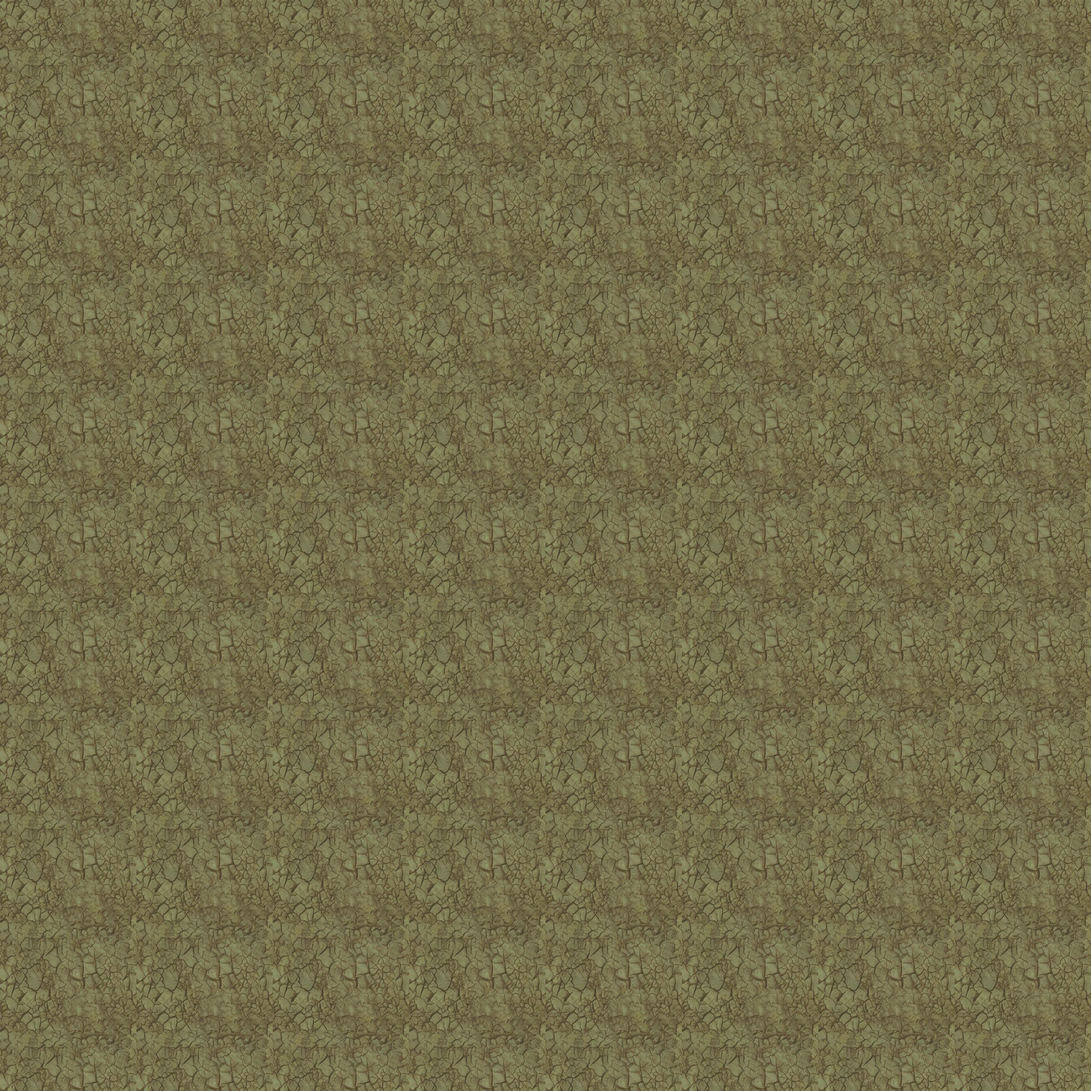
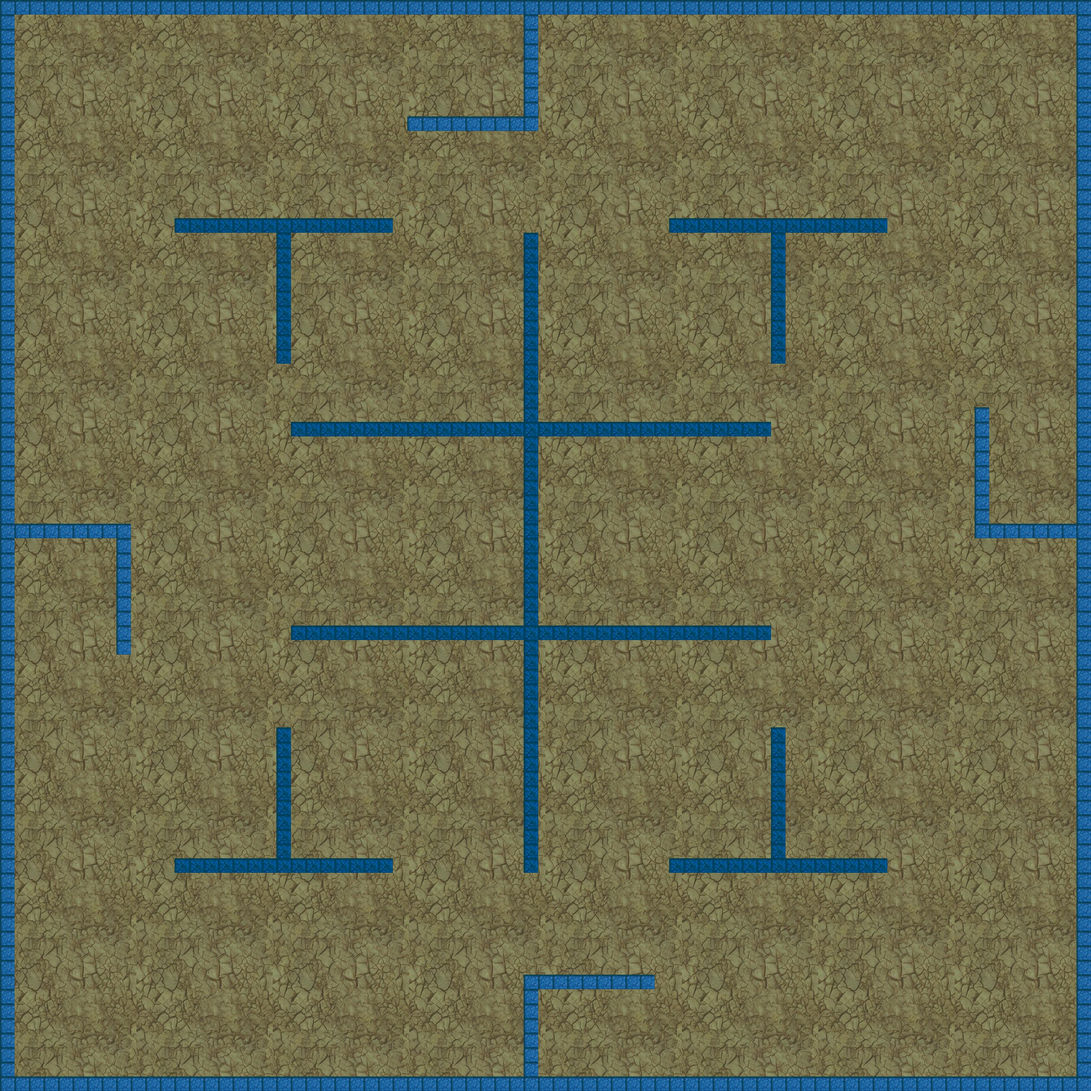
Added walls and minimap

diff --git a/src/application/World.java b/src/application/World.java
@@ -22,6 +22,10 @@ public class World extends JPanel implements Observer {
 
   protected final int MAIN_WIDTH = 2400;
   protected final int MAIN_HEIGHT = 2400;
+
+  protected final int MINI_MAP_WIDTH = 150;
+  protected final int MINI_MAP_HEIGHT = 150;
+
   protected final int STEP = 10;
   protected final String BACKGROUND_IMAGE = "resources/background_tile.png";
   protected final String TANK_IMAGE = "resources/Tank_grey_basic.png";
@@ -50,18 +54,127 @@ public class World extends JPanel implements Observer {
     try {
       Image tank1 = ImageIO.read(new File("resources/Tank_blue_basic_strip60.png"));
       Image tank2 = ImageIO.read(new File("resources/Tank_red_basic_strip60.png"));
-      this.tank1 = new Tank(tank1, 300, 300, KeyEvent.VK_W, KeyEvent.VK_S, KeyEvent.VK_A, KeyEvent.VK_D,
+      this.tank1 = new Tank(tank1, 1000, 150, KeyEvent.VK_W, KeyEvent.VK_S, KeyEvent.VK_A, KeyEvent.VK_D,
           KeyEvent.VK_C);
-      this.tank2 = new Tank(tank2, 100, 300, KeyEvent.VK_I, KeyEvent.VK_K, KeyEvent.VK_J, KeyEvent.VK_L,
+      this.tank2 = new Tank(tank2, 1350, 2250, KeyEvent.VK_I, KeyEvent.VK_K, KeyEvent.VK_J, KeyEvent.VK_L,
           KeyEvent.VK_N);
 
+      walls = new ArrayList<>();
+
       Image wallImage = ImageIO.read(new File("resources/wall.png"));
-      walls = new ArrayList<Wall>();
-      walls.add(new Wall(wallImage,0,0, false));
-      walls.add(new Wall(wallImage,100,100,false));
-      walls.add(new Wall(wallImage,100,132,false));
-      walls.add(new Wall(wallImage,200,200, false));
-      walls.add(new Wall(wallImage,232,200, false));
+
+      int wall_height = wallImage.getHeight(this);
+      int wall_length = wallImage.getWidth(this);
+
+      //  left edge
+      for(int y=0; y <= MAIN_HEIGHT; y = y + wall_height){
+        walls.add(new Wall(0,y, false));
+      }
+
+      // right edge
+      for(int y=0; y <= MAIN_HEIGHT; y = y + wall_height){
+        walls.add(new Wall(MAIN_WIDTH-wall_length,y, false));
+      }
+
+      // top edge
+      for(int x=0; x <= MAIN_WIDTH; x = x + wall_length){
+        walls.add(new Wall(x,0, false));
+      }
+
+      // bottom edge
+      for(int x=0; x <= MAIN_WIDTH; x = x + wall_length){
+        walls.add(new Wall(x,MAIN_HEIGHT - wall_height, false));
+      }
+
+      //center   36 is center
+      int start_center_x = ( (MAIN_WIDTH/2 - wall_length) / wall_length ) * wall_length;
+      int start_center_y = ( (MAIN_HEIGHT/2 - wall_height) / wall_height ) * wall_height ;
+
+      System.out.println(" start_center_x y " + start_center_x + " " + start_center_y);
+
+      for(int y = 16 * wall_height; y <= 59 * wall_height; y = y + wall_height){
+        walls.add(new Wall( start_center_x ,y, true));
+      }
+
+      /*
+      for(int x = 16*wall_length; x <= 59 * wall_length; x=x+wall_length){
+        walls.add(new Wall( x, start_center_y, true));
+      }
+      */
+
+      //center of centers
+      for(int x = 20*wall_length; x <= 52 * wall_length; x=x+wall_length){
+        walls.add(new Wall( x, start_center_y-7*wall_length , true));
+      }
+
+      for(int x = 20*wall_length; x <= 52 * wall_length; x=x+wall_length){
+        walls.add(new Wall( x, start_center_y+7*wall_length , true));
+      }
+
+
+      // extra corners
+
+      for(int x = 46*wall_length; x <= 60 * wall_length; x=x+wall_length){
+        walls.add(new Wall( x, 15*wall_length , true));
+        walls.add(new Wall( x, MAIN_HEIGHT-16*wall_length , true));
+      }
+
+      for(int x = 12*wall_length; x <= 26 * wall_length; x=x+wall_length){
+        walls.add(new Wall( x, 15*wall_length , true));
+        walls.add(new Wall( x, MAIN_HEIGHT-16*wall_length , true));
+      }
+
+      // extra corner vertical walls
+      for(int y = 16 * wall_height; y <= start_center_y-12*wall_length ; y = y + wall_height){
+        walls.add(new Wall( 19 * wall_height ,y, true));
+        walls.add(new Wall( 53 * wall_height ,y, true));
+      }
+
+      for(int y = MAIN_HEIGHT-25*wall_length; y <= MAIN_HEIGHT-17*wall_length ; y = y + wall_height){
+        walls.add(new Wall( 19 * wall_height ,y, true));
+        walls.add(new Wall( 53 * wall_height ,y, true));
+      }
+
+
+
+
+      //first bunker
+      for(int x = start_center_x - 8*wall_length ; x <= start_center_x; x = x + wall_length){
+        walls.add(new Wall( x , 8 * wall_height, false));
+      }
+
+      for(int y = 0; y <= 8 * wall_height; y = y + wall_height){
+        walls.add(new Wall( start_center_x ,y, false));
+      }
+
+
+      //second bunker
+      for(int y = start_center_y; y >= start_center_y-8*wall_length; y = y - wall_height){
+        walls.add(new Wall( MAIN_WIDTH-8*wall_length , y, false));
+      }
+
+      for(int x = MAIN_WIDTH - 8*wall_length ; x <= MAIN_WIDTH; x = x + wall_length){
+        walls.add(new Wall( x , start_center_y, false));
+      }
+
+
+
+      //third bunker
+      for(int x = start_center_x; x <= start_center_x+8*wall_length; x = x + wall_length){
+        walls.add(new Wall( x , 67 * wall_height, false));
+      }
+      for(int y = 67 * wall_height; y <= MAIN_HEIGHT; y = y + wall_height){
+        walls.add(new Wall( start_center_x ,y, false));
+      }
+
+      //fourth bunker
+      for(int y = start_center_y; y <= start_center_y+8*wall_length; y = y + wall_height){
+        walls.add(new Wall(8*wall_length , y, false));
+      }
+
+      for(int x = 0; x <= 8*wall_length; x = x + wall_length){
+        walls.add(new Wall( x , start_center_y, false));
+      }
 
 
     } catch (IOException exception) {
@@ -112,21 +225,24 @@ public class World extends JPanel implements Observer {
 
     Graphics2D g2 = bimg.createGraphics();
 
+    // 64 is tank width and height
+    int tank1_x = tank1.getX() - windowSize.width / 4 + 64/2;
+    if(tank1_x < 0) tank1_x = 0;
+    if(tank1_x + windowSize.width/2 > MAIN_WIDTH) tank1_x = MAIN_WIDTH - windowSize.width/2;
 
+    int tank1_y = tank1.getY() - windowSize.height / 2  + 64/2;
+    if(tank1_y < 0) tank1_y = 0;
+    if(tank1_y + windowSize.height > MAIN_HEIGHT) tank1_y = MAIN_HEIGHT - windowSize.height;
 
+    int tank2_x = tank2.getX() - windowSize.width / 4  + 64/2;
+    if(tank2_x < 0) tank2_x = 0;
+    if(tank2_x + windowSize.width/2 > MAIN_WIDTH) tank2_x = MAIN_WIDTH - windowSize.width/2;
+
+    int tank2_y = tank2.getY() - windowSize.height / 2 + 64/2;
+    if(tank2_y < 0) tank2_y = 0;
+    if(tank2_y + windowSize.height > MAIN_HEIGHT) tank2_y = MAIN_HEIGHT - windowSize.height;
 
 /*
-    int tank1_x = tank1.getX() - windowSize.width / 4 + tank1.getWidth()/2;
-    if(tank1_x < 0) tank1_x = 0;
-    int tank1_y = tank1.getY() - windowSize.height / 2  + tank1.getHeight()/2;
-    if(tank1_y < 0) tank1_y = 0;
-
-    int tank2_x = tank2.getX() - windowSize.width / 4  + tank1.getWidth()/2;
-    if(tank2_x < 0) tank2_x = 0;
-
-    int tank2_y = tank2.getY() - windowSize.height / 2 + tank1.getHeight()/2;
-    if(tank2_y < 0) tank2_y = 0;
-*/
 
     int tank1_x = tank1.getTankCenterX() - windowSize.width / 4 ;
     if(tank1_x < 0) tank1_x = 0;
@@ -138,15 +254,38 @@ public class World extends JPanel implements Observer {
 
     int tank2_y = tank2.getTankCenterY() - windowSize.height;
     if(tank2_y < 0) tank2_y = 0;
+*/
 
     BufferedImage player_1_window = main_bimg.getSubimage(tank1_x, tank1_y,windowSize.width / 2, windowSize.height);
 
     BufferedImage player_2_window = main_bimg.getSubimage(tank2_x, tank2_y,windowSize.width / 2, windowSize.height);
 
+
+
+    BufferedImage miniMap = (BufferedImage) createImage(MINI_MAP_WIDTH, MINI_MAP_HEIGHT);
+    Graphics2D miniMapG = miniMap.createGraphics();
+
+    miniMapG.setRenderingHint(RenderingHints.KEY_INTERPOLATION,
+            RenderingHints.VALUE_INTERPOLATION_BILINEAR);
+
+    miniMapG.drawImage(main_bimg, 0, 0, MINI_MAP_WIDTH, MINI_MAP_HEIGHT, 0, 0, MAIN_WIDTH,MAIN_HEIGHT, null);
+    miniMapG.dispose();
+
+
     g2.drawImage(player_1_window, 0, 0, this);
     g2.drawImage(player_2_window, windowSize.width / 2, 0, this);
 
     g.drawImage(bimg, 0, 0, this);
+
+    int miniMapX = windowSize.width / 2 - MINI_MAP_WIDTH/2;
+    int miniMapY = windowSize.height - MINI_MAP_HEIGHT;
+
+    g.drawImage(miniMap, miniMapX, miniMapY, this);
+
+    //System.out.println(MAIN_WIDTH/2 - MINI_MAP_WIDTH/2);
+    //System.out.println(MAIN_HEIGHT-MINI_MAP_HEIGHT);
+    g.drawImage(miniMap, 1125,2250, this);
+
 
 
   }
@@ -183,12 +322,11 @@ public class World extends JPanel implements Observer {
         w.draw(this, bg_g2);
       }
 
-      /*
       File outputfile = new File("resources/ooo.jpg");
       ImageIO.write(bg_buffer, "jpg", outputfile);
 
       System.out.println("drawbackground done");
-      */
+
 
     }catch(Exception e){
       e.getStackTrace();

diff --git a/src/objects/Wall.java b/src/objects/Wall.java
@@ -1,14 +1,34 @@
 package objects;
 
+import javax.imageio.ImageIO;
 import java.awt.*;
+import java.io.File;
 
 public class Wall extends GameObject {
 
     private Boolean isDestructible;
 
 
+
+  public Wall(int x, int y, Boolean isDestructible ){
+
+    try{
+      if(isDestructible){
+        image = ImageIO.read(new File("resources/wall.png"));
+      }else{
+        image = ImageIO.read(new File("resources/wall_indestructible.png"));
+      }
+      this.x = x;
+      this.y = y;
+      this.isDestructible = isDestructible;
+    }catch (Exception e){
+      System.out.println("Exception while creating new wall object.");
+    }
+  }
+
+
+
   public Wall(Image image, int x, int y, Boolean isDestructible ){
-    System.out.println("new wall object");
     this.x = x;
     this.y = y;
     this.image = image;
